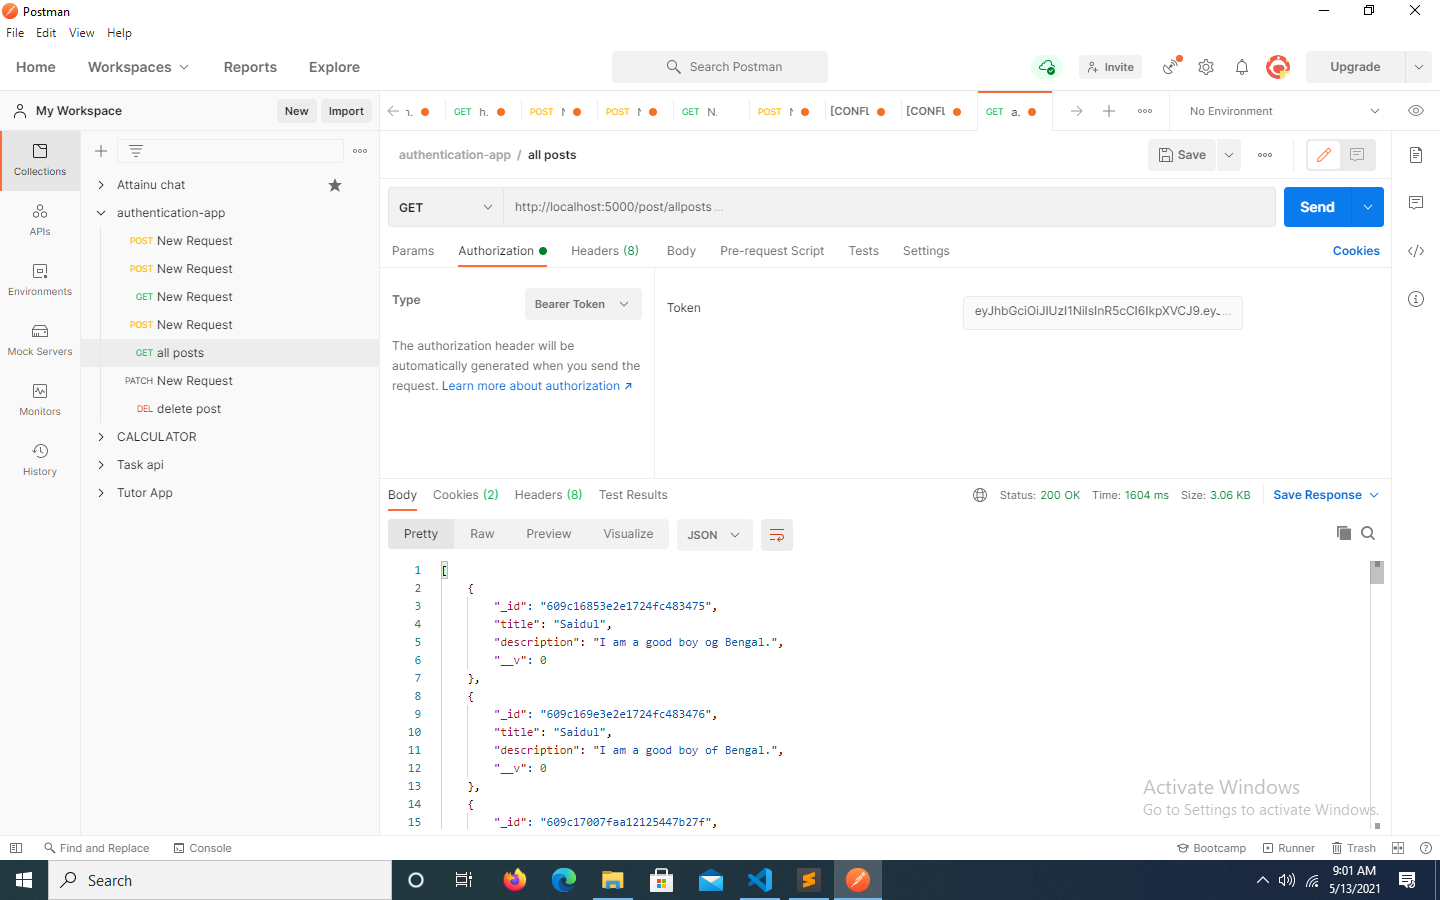
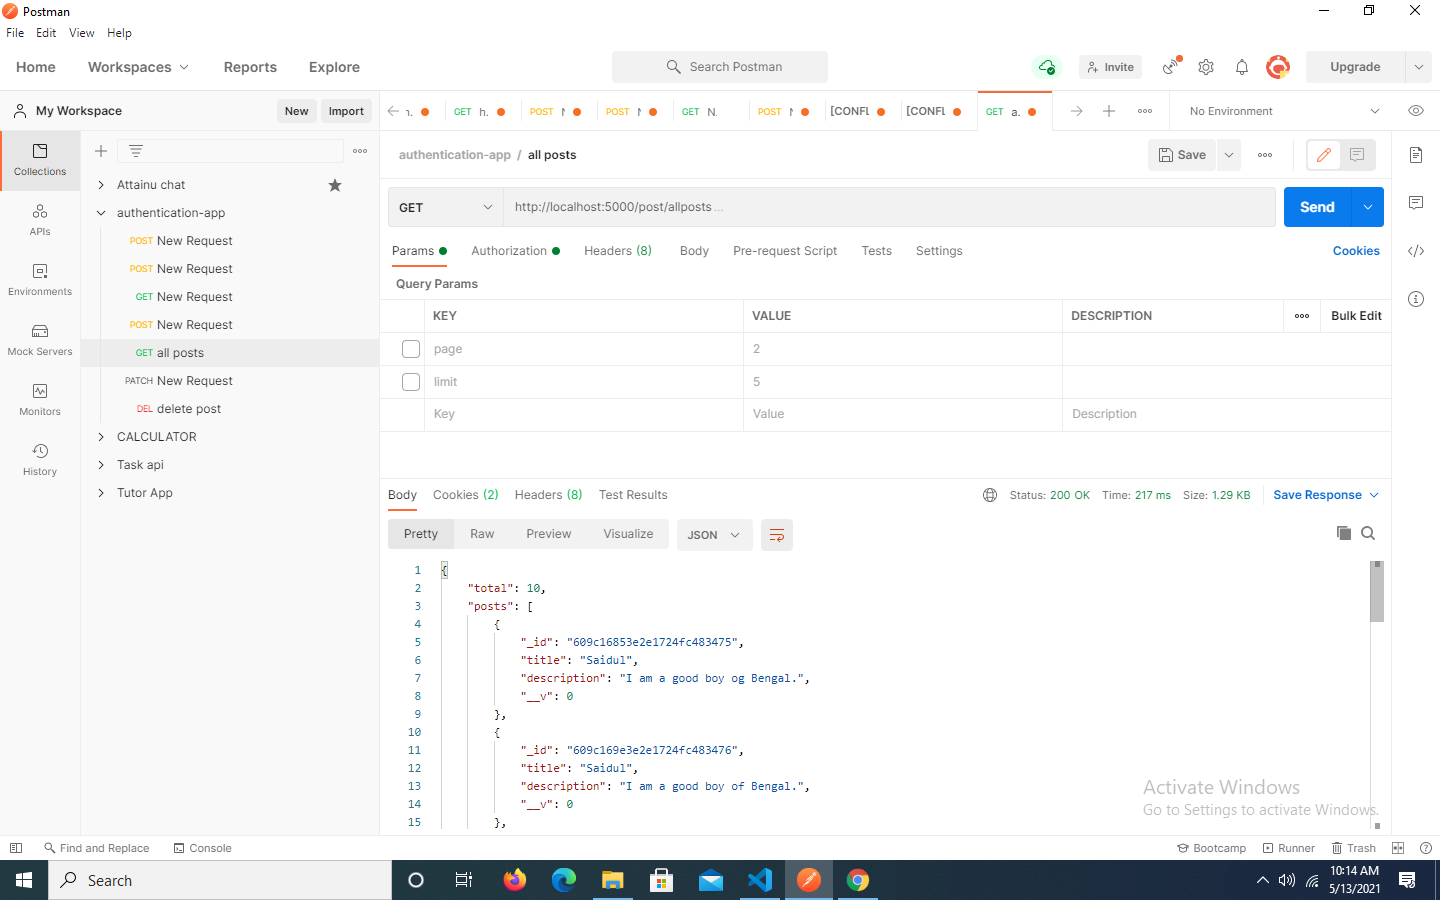
pagination added

diff --git a/routers/postRouter.js b/routers/postRouter.js
@@ -25,8 +25,11 @@ router.post("/create/:userId", isLoggedIn, isAdmin, isAuthenticated, async (req,
 
 router.get("/allposts", isAuthenticated, async (req, res) => {
   try {
-    const posts = await Post.find();
-    res.json(posts);
+    const {page=1, limit=10} = req.query
+    const posts = await Post.find()
+    .limit(limit * 1)
+    .skip((page - 1) * limit);
+    res.json({total:posts.length, posts});
   } catch (err) {
     console.error(err);
     res.status(500).send();

diff --git a/README.md b/README.md
@@ -52,7 +52,7 @@ npm start
 - GET: Local Server - http://localhost:5000/post/allposts
 
 ![](/demoPictures/Screenshot4.png)
-
+![](/demoPictures/Screenshot9.png)
 5. login as admin
 - make sure that your role is not 0. change it from your database 0 to some other number.
 - POST: Local Server - http://localhost:5000/auth/login
